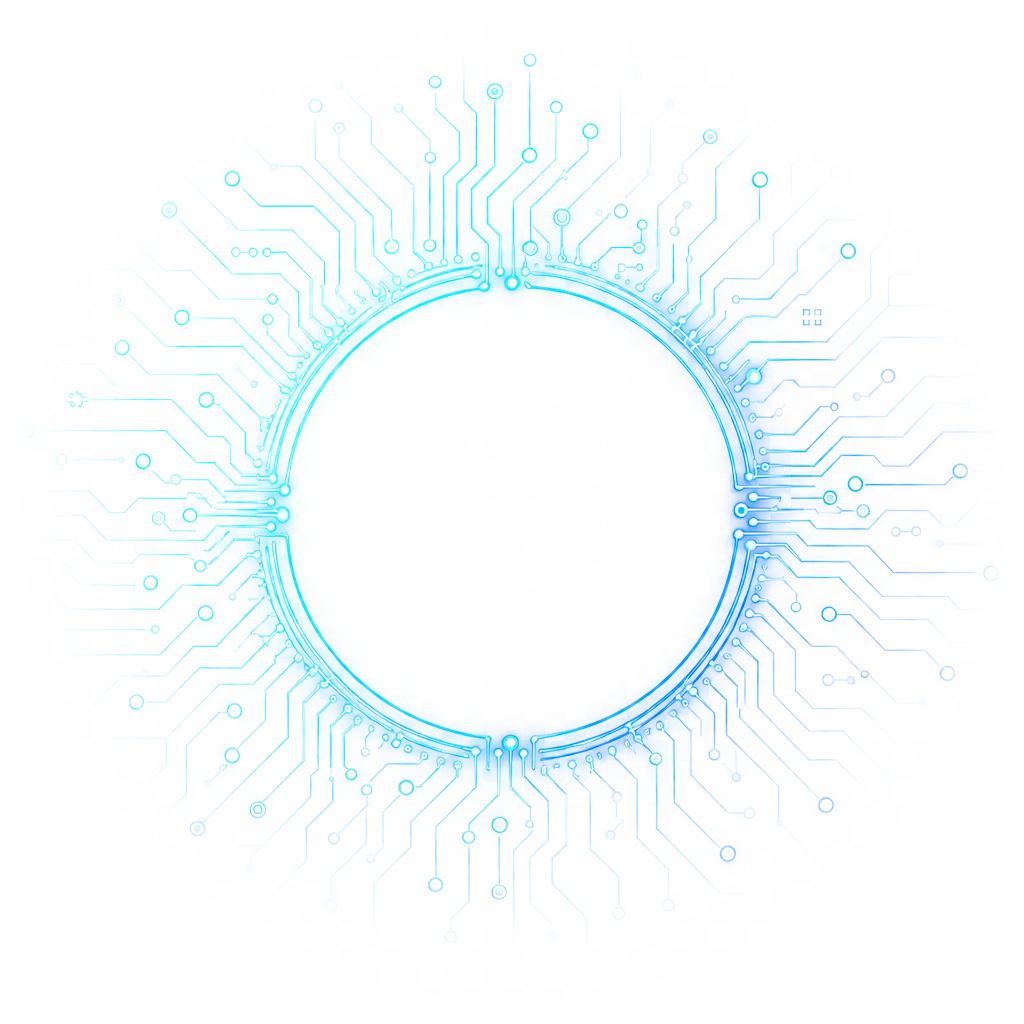
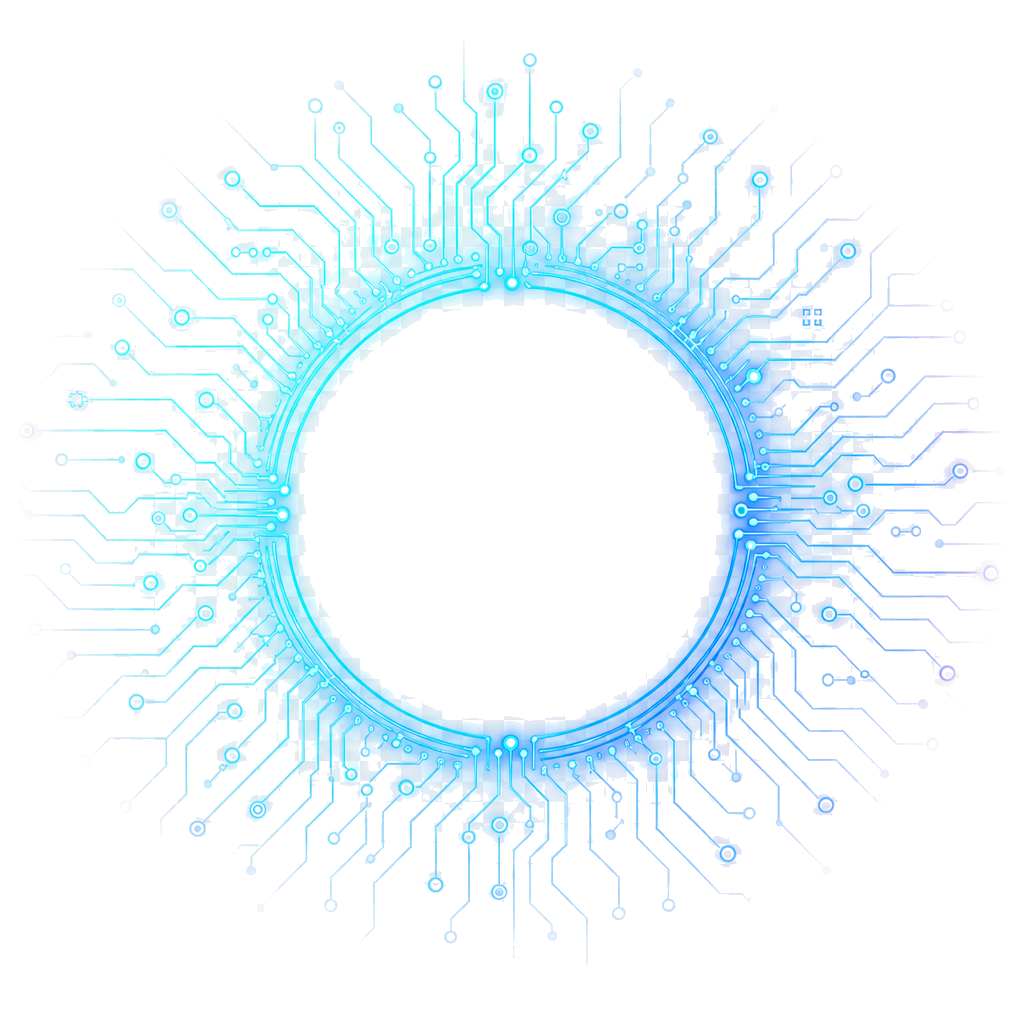
Improvements on headshot of website, and some wording

diff --git a/src/app/sections/resume/resume.component.ts b/src/app/sections/resume/resume.component.ts
@@ -12,34 +12,29 @@ import { SectionComponent } from '../../ui/section/section.component';
   template: `
     <app-section id="resume" kicker="02 / Resume" heading="Resume / CV">
       <app-card appReveal>
-        <div class="flex flex-col gap-6 sm:flex-row sm:items-center sm:justify-between">
-          <div class="flex items-start gap-4">
-            <div
-              class="flex h-14 w-14 shrink-0 items-center justify-center rounded-xl border border-accent-cyan/30 bg-accent-cyan/10 text-accent-cyan"
+        <div class="flex flex-col gap-6 sm:flex-row sm:items-center">
+          <div
+            class="flex h-14 w-14 shrink-0 items-center justify-center rounded-xl border border-accent-cyan/30 bg-accent-cyan/10 text-accent-cyan"
+          >
+            <svg
+              xmlns="http://www.w3.org/2000/svg"
+              class="h-7 w-7"
+              fill="none"
+              viewBox="0 0 24 24"
+              stroke="currentColor"
             >
-              <svg
-                xmlns="http://www.w3.org/2000/svg"
-                class="h-7 w-7"
-                fill="none"
-                viewBox="0 0 24 24"
-                stroke="currentColor"
-              >
-                <path
-                  stroke-linecap="round"
-                  stroke-linejoin="round"
-                  stroke-width="1.5"
-                  d="M9 12h6m-6 4h6m2 5H7a2 2 0 01-2-2V5a2 2 0 012-2h5.586a1 1 0 01.707.293l5.414 5.414a1 1 0 01.293.707V19a2 2 0 01-2 2z"
-                />
-              </svg>
-            </div>
-            <div>
-              <h3 class="text-xl font-semibold">{{ content.cv.updatedLabel }}</h3>
-              <p class="mt-1 text-sm text-muted">
-                Drop-in PDF at
-                <code class="font-mono text-accent-cyan">assets/cv/{{ content.cv.filename }}</code>
-              </p>
-            </div>
+              <path
+                stroke-linecap="round"
+                stroke-linejoin="round"
+                stroke-width="1.5"
+                d="M9 12h6m-6 4h6m2 5H7a2 2 0 01-2-2V5a2 2 0 012-2h5.586a1 1 0 01.707.293l5.414 5.414a1 1 0 01.293.707V19a2 2 0 01-2 2z"
+              />
+            </svg>
           </div>
+
+          <h3 class="flex-1 text-left text-xl font-semibold">
+            CV / Resume (Last Updated: June 2026)
+          </h3>
 
           <div class="flex flex-col gap-3 sm:flex-row">
             <app-button

diff --git a/src/app/sections/hero/hero.component.ts b/src/app/sections/hero/hero.component.ts
@@ -9,7 +9,7 @@ import { ButtonComponent } from '../../ui/button/button.component';
   imports: [ButtonComponent, RevealDirective],
   template: `
     <section id="hero" class="relative overflow-hidden py-12 md:py-16">
-      <div class="pcb-bg absolute inset-0 opacity-30"></div>
+      <div class="pcb-bg hero-pcb-fade absolute inset-0 opacity-30"></div>
       <div
         class="relative mx-auto grid max-w-6xl items-center gap-12 px-4 sm:px-6 lg:grid-cols-2 lg:px-8"
       >
@@ -71,6 +71,13 @@ import { ButtonComponent } from '../../ui/button/button.component';
     `
       .hero-emblem {
         animation: hero-pulse 6s ease-in-out infinite;
+      }
+
+      /* Fade the PCB-grid overlay out near the bottom of the hero so the */
+      /* transition into the next section is seamless instead of a hard seam. */
+      .hero-pcb-fade {
+        -webkit-mask-image: linear-gradient(to bottom, black 65%, transparent 100%);
+        mask-image: linear-gradient(to bottom, black 50%, transparent 100%);
       }
 
       .hero-disc {